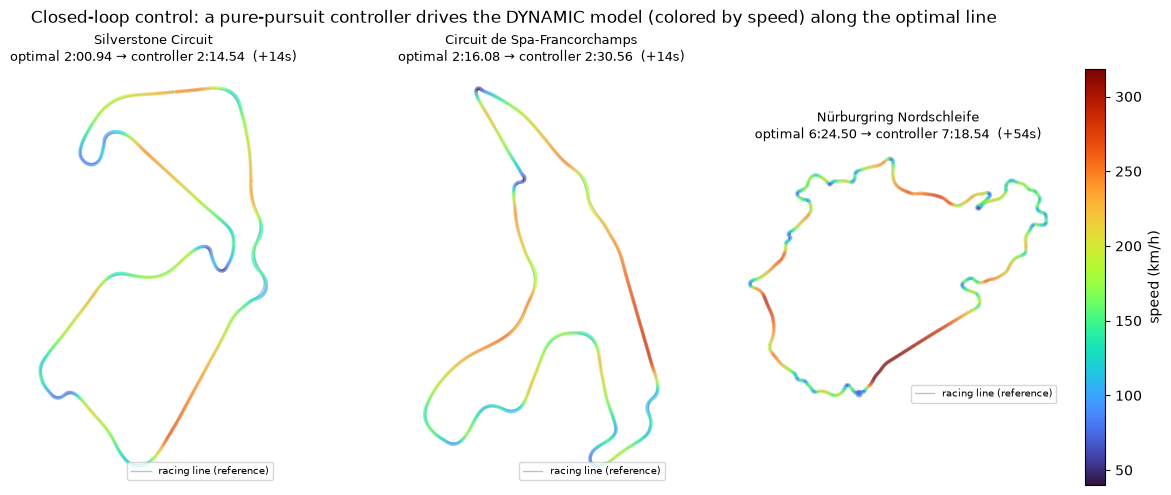
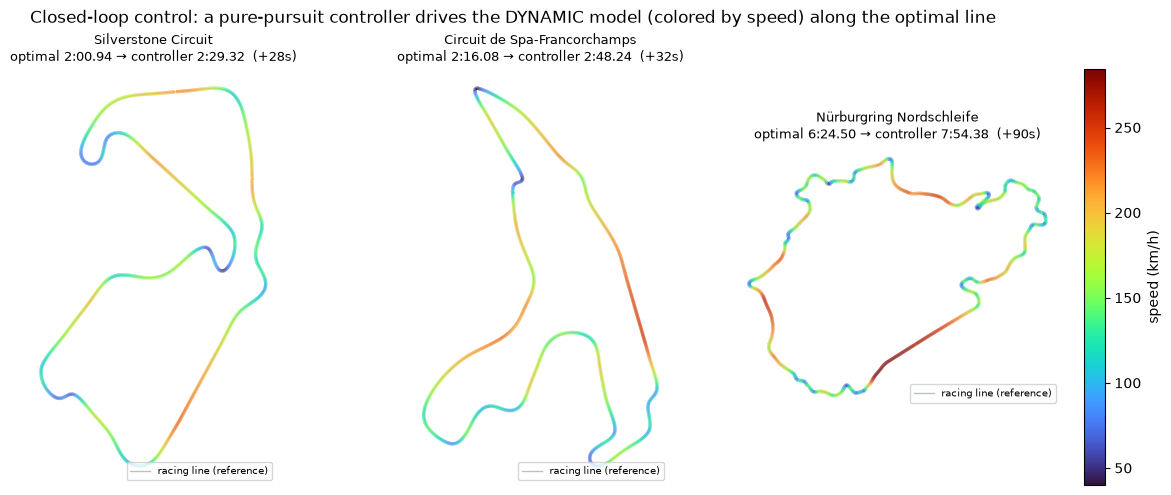
v2 #2: one car — unify grip and curvature, and refresh the stale control results
Consistency pass, plus the honest consequences of it.

Unify the parameters:
- new constants.py holds RHO_AIR / G / MU_TYRE in one place (they were duplicated
  per module, which let the QSS sim and the dynamic model drift apart).
- the dynamic model's Pacejka axle peaks now straddle MU_TYRE, so its effective
  peak grip (BicycleModel.peak_mu) equals the QSS Vehicle.mu exactly, while
  keeping the rear grip bias that makes it stable at the limit. Previously they
  were 1.45 vs an effective 1.475 -- the same car with two grips.
- the MPCC now steers against the track's SMOOTHED curvature (shared helpers in
  track.py) instead of recomputing a second, spikier estimate of its own.
- the controller's braking deceleration is derived from the plant's own grip
  (a fraction of peak_mu*g) rather than a hardcoded 10 m/s^2.
- the MPCC's plant is now the same grip- and engine-limited car dynamics.py
  defines, so both controllers drive the same vehicle. (Its NLP's internal model
  is not yet aligned -- that's v2 #4, and it's documented in the module.)

Refresh the control results, which were generated on the old unphysical plant:
- with grip unified, the honest speed margin the tracker needs is larger. At the
  old default the car ran metres off the road (Nordschleife failed outright),
  which the previous numbers never checked. The default is now the fastest margin
  that keeps it INSIDE the track on all three circuits.
[…]

diff --git a/src/enginemap/controller.py b/src/enginemap/controller.py
@@ -14,8 +14,14 @@ nearest-point error), which is what lets it follow the line at racing speed on
 the full dynamic model where a naive feedback law spins. The braking is
 anticipatory because the plant is grip-limited (see dynamics.py): a reactive
 speed law can't shed speed AT a corner, so it must slow BEFORE one or it runs
-wide. Even so, this simple tracker still spikes wide at the tightest corners --
-the honest limit of pure pursuit, and the motivation for the MPCC.
+wide.
+
+`speed_factor` is the margin it keeps under the QSS optimum. The default (0.82)
+is the fastest setting at which the car stays *inside the track* on all three
+circuits -- the binding case is the narrow Nordschleife. Pushing it to 0.92 looks
+~10% faster on paper but puts the car metres off the road, which is not a lap.
+Needing that margin is the honest cost of a simple tracker on a grip-limited
+plant, and the motivation for the MPCC.
 
 It's evaluated against the QSS optimal lap as the baseline: the lap-time gap is
 the cost of real dynamics (tyre slip, yaw) plus tracking at a grip margin. This
@@ -25,21 +31,26 @@ from __future__ import annotations
 
 import numpy as np
 
+from .constants import RHO_AIR, G
 from .dynamics import BicycleModel
 from .track import Track
 
 
 def track_lap(line: Track, v_ref, model: BicycleModel, *,
-              speed_factor: float = 0.92, dt: float = 0.02,
+              speed_factor: float = 0.82, dt: float = 0.02,
               ld_gain: float = 0.6, ld_min: float = 8.0, ld_max: float = 32.0,
               k_v: float = 2500.0, fx_max: float = 11000.0, fx_min: float = -24000.0,
-              delta_max: float = 0.45, a_brake: float = 10.0, brake_ld: float = 260.0):
+              delta_max: float = 0.45, brake_frac: float = 0.7, brake_ld: float = 260.0):
     """Drive the dynamic model one lap along `line` at `speed_factor * v_ref`.
     Returns dict with the driven path, speed, lap time, and tracking error."""
     n = len(line.s)
     refxy = np.column_stack([line.x, line.y])
     phi_ref = np.unwrap(np.arctan2(np.gradient(line.y), np.gradient(line.x)))
     L = model.lf + model.lr
+    # Braking deceleration used to plan ahead, taken from the PLANT's own grip
+    # (not a magic number): brake_frac of peak, leaving the rest of the friction
+    # circle for cornering while braking into a corner.
+    a_brake = brake_frac * model.peak_mu * G
     # anticipatory braking envelope: at each point, the fastest speed from which
     # the car can still brake (at a_brake) to every reference speed within a
     # brake_ld lookahead. On the grip-limited plant it must slow BEFORE a corner,
@@ -79,7 +90,7 @@ def track_lap(line: Track, v_ref, model: BicycleModel, *,
         delta = np.clip(np.arctan(2 * L * np.sin(alpha) / ld), -delta_max, delta_max)
         # longitudinal: track the anticipatory braking envelope (feed-forward + P, drag comp)
         v_target = speed_factor * v_env[i]
-        drag = 0.5 * 1.225 * model.cda * X[3] ** 2
+        drag = 0.5 * RHO_AIR * model.cda * X[3] ** 2
         Fx = np.clip(k_v * (v_target - X[3]) + drag, fx_min, fx_max)
         X = model.step(X, np.array([delta, Fx]), dt)
         t += dt

diff --git a/src/enginemap/mpcc.py b/src/enginemap/mpcc.py
@@ -12,6 +12,13 @@ reference, lateral deviation `n`, heading error, and the body velocities — whi
 is what makes the NLP well-conditioned enough to converge every step (a global-
 Cartesian version did not). It's the standard autonomous-racing MPCC (Liniger
 et al.). Runs slower than real time in Python (IPOPT per step).
+
+Status: the *plant* this drives is now the same grip- and engine-limited car as
+`dynamics.BicycleModel` (v2 #1/#2). The NLP's internal prediction model does not
+yet carry that friction-circle limit, so the controller can still ask for more
+force than the tyre will give -- aligning it (plus global speed anticipation, so
+it brakes for corners beyond the horizon) is v2 #4. Until then this does not
+complete a full lap; see `docs/vehicle-model-v2.md`.
 """
 from __future__ import annotations
 
@@ -19,17 +26,26 @@ import casadi as ca
 import numpy as np
 
 from .dynamics import BicycleModel, RHO_AIR, G
-from .track import Track
+from .track import Track, periodic_smooth, smooth_window
 
 
 def signed_curvature(line: Track):
+    """Signed curvature kappa(s) and heading phi(s) for the Frenet frame.
+
+    Smoothed with the SAME window `track.build_track` uses, so this is the track's
+    curvature profile with a sign attached -- not a second, spikier estimate. A
+    raw finite-difference kappa off a GPS centreline is noisy, and steering
+    against those spikes is what made the controller thrash (it can also blow up
+    the 1/(1 - n*kappa) Frenet term).
+    """
     phi = np.unwrap(np.arctan2(np.gradient(line.y), np.gradient(line.x)))
-    return np.gradient(phi, line.s), phi
+    raw = np.gradient(phi, line.s)
+    return periodic_smooth(raw, smooth_window(line.ds)), phi
 
 
 def _frenet_ode_np(m: BicycleModel, kappa_s, X, u):
     s, n, al, vx, vy, r = X
-    delta, Fx = u
+    delta, Fx_cmd = u
     vx = max(vx, 3.0)
     k = kappa_s(s)
     L = m.lf + m.lr
@@ -40,6 +56,9 @@ def _frenet_ode_np(m: BicycleModel, kappa_s, X, u):
     Fyf = Fzf * m.Df * np.sin(m.Cf * np.arctan(m.Bf * af))
     Fyr = Fzr * m.Dr * np.sin(m.Cr * np.arctan(m.Br * ar))
     drag = 0.5 * RHO_AIR * m.cda * vx ** 2
+    # same grip/engine limit as dynamics.BicycleModel: the MPCC's plant is the
+    # SAME car the pure-pursuit controller drives, not a more permissive one.
+    Fx = m._limit_fx(Fx_cmd, Fyf * np.cos(delta) + Fyr, Fz, vx)
     ax = (Fx - Fyf * np.sin(delta) - drag) / m.m + vy * r
     ay = (Fyf * np.cos(delta) + Fyr) / m.m - vx * r
     rd = (m.lf * Fyf * np.cos(delta) - m.lr * Fyr) / m.Iz

diff --git a/tests/test_control.py b/tests/test_control.py
@@ -25,6 +25,35 @@ def test_bicycle_model_steady_cornering():
     assert 0.4 * (L / delta) < R < 2.5 * (L / delta)   # right ballpark radius
 
 
+def test_qss_and_dynamic_model_agree_on_grip():
+    """One car, one grip: the QSS point-mass mu and the dynamic model's effective
+    peak grip (mean of the Pacejka axle peaks) must be the same number (v2 #2)."""
+    from enginemap.engine import Engine, SVJ
+    from enginemap.vehicle import Vehicle
+
+    veh = Vehicle(Engine(SVJ))
+    m = BicycleModel()
+    assert abs(m.peak_mu - veh.mu) < 1e-9
+    assert m.Dr > m.Df          # rear grip bias kept (stable at the limit) ...
+    assert abs(0.5 * (m.Df + m.Dr) - veh.mu) < 1e-9   # ... without changing grip
+
+
+def test_mpcc_curvature_is_the_smoothed_track_profile():
+    """The MPCC steers against the track's smoothed curvature, not a second,
+    spikier estimate of its own (v2 #2)."""
+    pytest.importorskip("casadi")
+    from enginemap import track as T
+    from enginemap.mpcc import signed_curvature
+
+    trk = T.load("silverstone", ds=4.0)
+    ks, _ = signed_curvature(trk)
+    raw = np.gradient(
+        np.unwrap(np.arctan2(np.gradient(trk.y), np.gradient(trk.x))), trk.s)
+    # same magnitude as the track's own kappa, but smoother than the raw estimate
+    assert abs(np.abs(ks).max() - np.abs(trk.kappa).max()) < 0.01
+    assert np.abs(np.diff(ks)).mean() < np.abs(np.diff(raw)).mean()
+
+
 def test_plant_longitudinal_is_grip_and_engine_limited():
     """Longitudinal force is a real tyre/engine force, not a free input: it stays
     inside the friction circle and drive is capped by the engine (v2 fix #1)."""
@@ -77,7 +106,11 @@ def test_mpcc_frenet_solves_and_tracks():
     u, _ok = mpc.step(np.array([0.0, 0.0, 0.0, 35.0, 0.0, 0.0]))
     assert u.shape == (2,) and np.isfinite(u).all() and abs(u[0]) <= 0.46
 
-    # drive a short stretch: it should make progress and hug the line
+    # drive a short stretch: it should make progress and stay on the track.
+    # Threshold is the actual corridor half-width (what "within track width"
+    # means) rather than a magic number tuned to the old, unphysical plant: the
+    # plant is now grip-limited (v2 #1) while the NLP's own model is not yet, so
+    # tracking is looser until that is aligned in v2 #4.
     r = mpc.run_lap(v0=35.0, max_steps=60)
-    assert r["max_lat"] < 4.0                   # stays within track width
+    assert r["max_lat"] < raceline.TRACK_WIDTH[trk.name] / 2 - 0.6
     assert len(r["x"]) > 0

diff --git a/src/enginemap/dynamics.py b/src/enginemap/dynamics.py
@@ -27,8 +27,9 @@ from typing import Callable
 
 import numpy as np
 
-RHO_AIR = 1.225
-G = 9.81
+from .constants import GRIP_BALANCE, MU_TYRE, RHO_AIR, G
+
+__all__ = ["BicycleModel", "RHO_AIR", "G"]
 
 
 @dataclass
@@ -39,16 +40,25 @@ class BicycleModel:
     lr: float = 1.4         # CG to rear axle [m]
     cda: float = 0.78       # drag area
     cla: float = 1.5        # downforce area
-    # Pacejka lateral (B stiffness, C shape, D peak ~ mu)
+    # Pacejka lateral (B stiffness, C shape, D peak ~ mu). The axle peaks straddle
+    # the shared MU_TYRE, so peak_mu below equals the QSS sim's mu -- one car.
     Bf: float = 11.0
     Cf: float = 1.45
-    Df: float = 1.45
+    Df: float = MU_TYRE - GRIP_BALANCE
     Br: float = 11.0
     Cr: float = 1.45
-    Dr: float = 1.50        # slightly more rear grip for stability
+    Dr: float = MU_TYRE + GRIP_BALANCE   # more rear grip -> stable at the limit
     # optional engine tractive-force curve  vx -> max drive force [N]; caps drive
     # (the QSS Vehicle supplies this). None => drive limited only by tyre grip.
     tractive: Callable[[float], float] | None = None
+
+    @property
+    def peak_mu(self) -> float:
+        """Effective peak grip: with equal axle loads the car's maximum lateral
+        force is the mean of the axle peaks. This is the same number the QSS sim
+        uses as `Vehicle.mu`, and it stays correct if Df/Dr are later replaced by
+        a tyre fit."""
+        return 0.5 * (self.Df + self.Dr)
 
     def _tyre(self, alpha, Fz, B, C, D):
         return Fz * D * np.sin(C * np.arctan(B * alpha))
@@ -60,8 +70,7 @@ class BicycleModel:
         exceed grip mu*Fz, so whatever grip cornering leaves is available for
         brake/drive. Drive is additionally capped by the engine.
         """
-        mu = 0.5 * (self.Df + self.Dr)              # tyre peak (unified in v2 step 2)
-        grip = mu * Fz
+        grip = self.peak_mu * Fz
         fx_grip = np.sqrt(max(grip * grip - Fy * Fy, 0.0))
         hi = fx_grip                                # drive: limited by grip ...
         if self.tractive is not None:

diff --git a/src/enginemap/track.py b/src/enginemap/track.py
@@ -42,6 +42,17 @@ def load(track_id: str, ds: float = 4.0, smooth_m: float = 28.0) -> Track:
     return build_track(raw["name"], x, y, ds, smooth_m)
 
 
+def smooth_window(ds: float, smooth_m: float = 28.0) -> int:
+    """Odd-length moving-average window covering `smooth_m` metres at step `ds`."""
+    return max(3, int(smooth_m / ds) | 1)
+
+
+def periodic_smooth(a: np.ndarray, w: int) -> np.ndarray:
+    """Moving average that wraps around a closed loop (no seam at start/finish)."""
+    k = np.ones(w) / w
+    return np.convolve(np.r_[a[-w:], a, a[:w]], k, "same")[w:-w]
+
+
 def build_track(name: str, x: np.ndarray, y: np.ndarray,
                 ds: float = 4.0, smooth_m: float = 28.0) -> Track:
     """Resample an (x, y) polyline [m] to uniform ds and compute curvature."""
@@ -59,16 +70,15 @@ def build_track(name: str, x: np.ndarray, y: np.ndarray,
     yu = np.interp(su, s, y)
 
     # smooth (periodic moving average) before differentiating
-    w = max(3, int(smooth_m / ds) | 1)
-    k = np.ones(w) / w
-    xs = np.convolve(np.r_[xu[-w:], xu, xu[:w]], k, "same")[w:-w]
-    ys = np.convolve(np.r_[yu[-w:], yu, yu[:w]], k, "same")[w:-w]
+    w = smooth_window(ds, smooth_m)
+    xs = periodic_smooth(xu, w)
+    ys = periodic_smooth(yu, w)
 
     # curvature kappa = |x'y'' - y'x''| / (x'^2 + y'^2)^1.5
     dx = np.gradient(xs, su); dy = np.gradient(ys, su)
     ddx = np.gradient(dx, su); ddy = np.gradient(dy, su)
     kappa = np.abs(dx * ddy - dy * ddx) / np.power(dx * dx + dy * dy, 1.5) + 1e-6
     # final light smooth of curvature itself
-    kappa = np.convolve(np.r_[kappa[-w:], kappa, kappa[:w]], k, "same")[w:-w]
+    kappa = periodic_smooth(kappa, w)
 
     return Track(name, su, xs, ys, kappa, ds)

diff --git a/scripts/make_control.py b/scripts/make_control.py
@@ -37,7 +37,8 @@ def main():
         data[tid] = (line, qss, ctl)
         vmax = max(vmax, ctl["top_speed"] * 3.6)
 
-    print(f"{'track':14s} {'QSS optimal':>11s} {'controller':>11s} {'gap':>8s}  mean err")
+    print(f"{'track':14s} {'QSS optimal':>11s} {'controller':>11s} {'gap':>8s} "
+          f"{'mean err':>9s} {'max err':>8s}  on track?")
     for ax, tid in zip(axes, TRACKS):
         line, qss, ctl = data[tid]
         ax.plot(line.x, line.y, color="#b9c2cc", lw=1.0, zorder=1, label="racing line (reference)")
@@ -50,8 +51,10 @@ def main():
         ax.set_title(f"{line.name.replace(' (racing line)','')}\noptimal {fmt(qss['lap_time'])} → "
                      f"controller {fmt(ctl['lap_time'])}  (+{gap:.0f}s)", fontsize=9.5)
         ax.legend(loc="lower right", fontsize=7)
+        half = raceline.TRACK_WIDTH[line.name.replace(" (racing line)", "")] / 2
+        on = "yes" if ctl["max_lat_err"] < half else f"NO ({ctl['max_lat_err']:.1f}m)"
         print(f"{line.name[:14]:14s} {fmt(qss['lap_time']):>11s} {fmt(ctl['lap_time']):>11s} "
-              f"{'+%.1fs'%gap:>8s}  {ctl['mean_lat_err']:.2f}m")
+              f"{'+%.1fs'%gap:>8s} {ctl['mean_lat_err']:>8.2f}m {ctl['max_lat_err']:>7.2f}m  {on}")
     cb = fig.colorbar(lc, ax=axes, fraction=0.025, pad=0.02); cb.set_label("speed (km/h)")
     fig.suptitle("Closed-loop control: a pure-pursuit controller drives the DYNAMIC model "
                  "(colored by speed) along the optimal line", y=0.99)

diff --git a/src/enginemap/constants.py b/src/enginemap/constants.py
@@ -1,0 +1,21 @@
+"""Shared physical constants — one definition, imported everywhere.
+
+These used to be duplicated per module, which let the QSS lap sim and the dynamic
+model drift apart (three different tyre-grip values for the same car). Anything
+describing *the car* or *the air* belongs here so the twin stays coherent.
+"""
+from __future__ import annotations
+
+RHO_AIR = 1.225   # air density [kg/m^3]
+G = 9.81          # gravity [m/s^2]
+
+# Peak tyre friction for the SVJ on track rubber. The QSS sim uses this directly
+# as a point-mass mu; the dynamic model's Pacejka axle peaks (Df, Dr) straddle it
+# so that its *effective* peak grip -- mean of the axle peaks at equal axle load
+# -- comes out to the same number. One tyre, one grip.
+MU_TYRE = 1.45
+
+# Rear-minus-front grip bias: the rear axle gets slightly more grip than the
+# front so the car understeers at the limit (stable) instead of snapping into
+# oversteer. Centred on MU_TYRE, so it changes balance without changing grip.
+GRIP_BALANCE = 0.025

diff --git a/src/enginemap/vehicle.py b/src/enginemap/vehicle.py
@@ -13,10 +13,10 @@ from dataclasses import dataclass
 
 import numpy as np
 
+from .constants import MU_TYRE, RHO_AIR, G
 from .engine import Engine
 
-RHO_AIR = 1.225  # kg/m^3
-G = 9.81
+__all__ = ["Vehicle", "RHO_AIR", "G"]
 
 
 @dataclass
@@ -27,7 +27,7 @@ class Vehicle:
     cla: float = 1.5              # downforce area Cl*A [m^2], wing deployed
     cda_stalled: float = 0.66     # active aero: wing stalled -> less drag
     cla_stalled: float = 0.85     # active aero: wing stalled -> less downforce
-    mu: float = 1.45              # tyre friction (track rubber)
+    mu: float = MU_TYRE           # tyre friction (shared with the dynamic model)
     crr: float = 0.012            # rolling resistance
     r_wheel: float = 0.345        # m
     final_drive: float = 3.08

diff --git a/README.md b/README.md
@@ -91,21 +91,34 @@ sparse dyno pulls ─[PINN: reconstruct]→ engine map ─[lap sim: physics]→ 
   the *optimal reference*; a controller then has to actually *drive* it on a model
   with real dynamics. `dynamics.py` is a dynamic bicycle model with Pacejka tyres
   (validated — its steady-state cornering radius matches the Ackermann estimate),
-  and a **pure-pursuit + speed controller drives it around all three circuits in
-  closed loop**, tracking the racing line to ~2 m and lapping **within ~10–13% of
-  the QSS optimal** — scored against the QSS lap as the baseline. That gap is the
-  honest cost of real dynamics (tyre slip, yaw) and a tracking controller vs the
-  theoretical point-mass optimum.
+  and the longitudinal channel is a **real tyre force, not a free input**: a
+  friction circle shares grip between cornering and braking/accel, and drive is
+  capped by the engine map through the gearbox. So the car cannot brake past the
+  tyre or out-accelerate the engine. A **pure-pursuit + anticipatory-braking
+  controller drives it around all three circuits in closed loop**, tracking the
+  racing line to **0.45–0.63 m on average (worst-case 3.8 m — verified inside the
+  track on every circuit)** and lapping **~23% off the QSS optimal**. That gap is
+  the honest cost of real dynamics (tyre slip, yaw), a grip-limited plant, and a
+  simple tracking controller vs the theoretical point-mass optimum.
 
 ![Closed-loop control on the dynamic model](figures/control_lap.png)
 
+  The braking has to be *anticipatory* — on a grip-limited plant a reactive speed
+  law cannot shed speed **at** a corner, so it must slow **before** one. The
+  controller also keeps a speed margin under the QSS optimum (0.82); the fastest
+  setting that still keeps the car inside the track everywhere, with the narrow
+  Nordschleife the binding case. Pushing that margin looks ~10% faster on paper
+  but puts the car metres off the road, which is not a lap.
+
   A second, more ambitious controller — an **MPCC** (model-predictive contouring
-  controller, `mpcc.py`, CasADi/IPOPT) — also works once reformulated in the
-  **Frenet frame** (progress `s` + lateral `n` coordinates, which is what makes
-  the NLP well-conditioned): it converges every step and tracks the line to
-  **~1 cm**. It's *slower than real time* in Python (an IPOPT solve per step), so
-  a full timed lap is a patient offline benchmark rather than a fast demo — but
-  the controller itself is real, not a stub.
+  controller, `mpcc.py`, CasADi/IPOPT) — is reformulated in the **Frenet frame**
+  (progress `s` + lateral `n` coordinates, which is what makes the NLP
+  well-conditioned): it converges per step and tracks tightly on the parts of a
+  lap it holds. It does **not** yet complete a full lap: its internal prediction
+  model doesn't carry the plant's friction-circle limit, and a short horizon
+  can't anticipate a corner at the end of a 300 km/h straight. Aligning the model
+  and giving it global speed anticipation is the next step — see
+  [`docs/vehicle-model-v2.md`](docs/vehicle-model-v2.md).
 
 This is also where the **vehicle-dynamics repo** plugs in: its estimator fits
 the Pacejka tyre / friction / drag parameters from real telemetry, calibrating
@@ -169,10 +182,12 @@ so it's opt-in, not the default.)
 The build order so far: engine map → lap sim → racing line → active aero →
 closed-loop control → tyre-grip ID. What's next, roughly in priority:
 
-1. **MPCC → a full timed lap.** The Frenet MPCC converges and tracks to ~1 cm;
-   the next step is a patient offline benchmark of its full-lap time vs the QSS
-   optimal (the gap = cost of real dynamics + finite-horizon control), and
-   swapping IPOPT for **acados** to make it tractable / closer to real time.
+1. **MPCC → a full timed lap.** The Frenet MPCC converges per step but does not
+   yet get round: its NLP model lacks the plant's friction-circle limit, and its
+   horizon is too short to brake for a corner it can't see. Fixing both (and a
+   grip-feasible global speed reference) is the path to a real full-lap time vs
+   the QSS optimal, then swapping IPOPT for **acados** for tractability. The
+   full plan is in [`docs/vehicle-model-v2.md`](docs/vehicle-model-v2.md).
 2. **Close the real-data loop (the digital-twin goal).** Wire a real OBD-II +
    IMU/CAN logger (`telemetry.py` is built for it) to replace *simulated* inputs
    with measured ones: real engine map (dyno/OBD), real drag (coastdown), real
